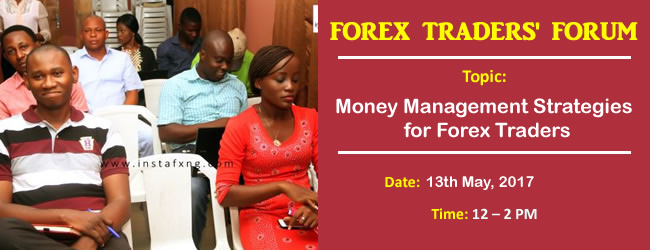
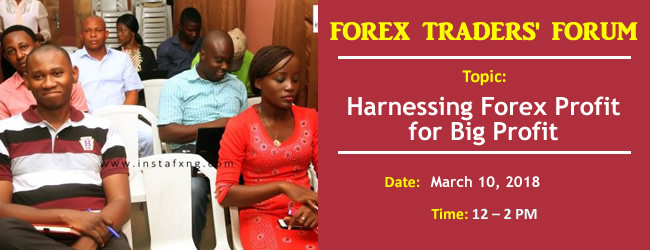
education and forum registration page updates

Changed region(s): [[0.4923, 0.392, 0.9846, 0.588], [0.6462, 0.7, 0.8308, 0.756]]

diff --git a/public_html/admin/edu_student_category_0.php b/public_html/admin/edu_student_category_0.php
@@ -7,23 +7,23 @@ if (!$session_admin->is_logged_in()) {
 
 if(isset($_POST['search_text']) && strlen($_POST['search_text']) > 3) {
     $search_text = $_POST['search_text'];
-    $query = "SELECT u.user_code, CONCAT(u.last_name, SPACE(1), u.first_name) AS full_name, u.email,
+    $query = "SELECT u.user_code, CONCAT(u.last_name, SPACE(1), u.first_name) AS full_name, u.email, ftc.created,
             u.phone, u.academy_signup, CONCAT(a.last_name, SPACE(1), a.first_name) AS account_officer_full_name
-            FROM user AS u
-            LEFT JOIN user_edu_exercise_log AS ueel ON u.user_code = ueel.user_code
+            FROM free_training_campaign AS ftc
+            INNER JOIN user AS u ON ftc.email = u.email
             INNER JOIN account_officers AS ao ON u.attendant = ao.account_officers_id
             INNER JOIN admin AS a ON ao.admin_code = a.admin_code
-            WHERE u.academy_signup IS NOT NULL AND ueel.user_code IS NULL AND (u.email LIKE '%$search_text%' OR u.first_name LIKE '%$search_text%' OR u.middle_name LIKE '%$search_text%' OR u.last_name LIKE '%$search_text%' OR u.phone LIKE '%$search_text%')
-            ORDER BY u.academy_signup DESC ";
+            WHERE STR_TO_DATE(ftc.created, '%Y-%m-%d') > '2018-01-01' AND u.academy_signup IS NULL AND (u.email LIKE '%$search_text%' OR u.first_name LIKE '%$search_text%' OR u.middle_name LIKE '%$search_text%' OR u.last_name LIKE '%$search_text%' OR u.phone LIKE '%$search_text%')
+            ORDER BY ftc.created DESC ";
 } else {
-    $query = "SELECT u.user_code, CONCAT(u.last_name, SPACE(1), u.first_name) AS full_name, u.email,
+    $query = "SELECT u.user_code, CONCAT(u.last_name, SPACE(1), u.first_name) AS full_name, u.email, ftc.created,
             u.phone, u.academy_signup, CONCAT(a.last_name, SPACE(1), a.first_name) AS account_officer_full_name
-            FROM user AS u
-            LEFT JOIN user_edu_exercise_log AS ueel ON u.user_code = ueel.user_code
+            FROM free_training_campaign AS ftc
+            INNER JOIN user AS u ON ftc.email = u.email
             INNER JOIN account_officers AS ao ON u.attendant = ao.account_officers_id
             INNER JOIN admin AS a ON ao.admin_code = a.admin_code
-            WHERE u.academy_signup IS NOT NULL AND ueel.user_code IS NULL
-            ORDER BY u.academy_signup DESC ";
+            WHERE STR_TO_DATE(ftc.created, '%Y-%m-%d') > '2018-01-01' AND u.academy_signup IS NULL
+            ORDER BY ftc.created DESC ";
 }
 
 $numrows = $db_handle->numRows($query);
@@ -109,14 +109,14 @@ $education_students = $db_handle->fetchAssoc($result);
                         <div class="row">
                             <div class="col-sm-12">
 
-                                <p>List of students that never logged in to the FX Academy portal.</p>
+                                <p>List of students that never logged in to the FX Academy portal. Covers Jan 2018 till date.</p>
 
                                 <table class="table table-responsive table-striped table-bordered table-hover">
                                     <thead>
                                     <tr>
                                         <th>Client Name</th>
                                         <th>Client Phone</th>
-                                        <th>First Login</th>
+                                        <th>Reg Date</th>
                                         <th>Officer</th>
                                         <th>Action</th>
                                     </tr>
@@ -126,10 +126,10 @@ $education_students = $db_handle->fetchAssoc($result);
                                         <tr>
                                             <td><?php echo $row['full_name']; ?></td>
                                             <td><?php echo $row['phone']; ?></td>
-                                            <td><?php echo datetime_to_text($row['academy_signup']); ?></td>
+                                            <td><?php echo datetime_to_text($row['created']); ?></td>
                                             <td><?php echo $row['account_officer_full_name']; ?></td>
                                             <td nowrap="nowrap">
-                                                <a title="Comment" class="btn btn-success" href="sales_contact_view.php?x=<?php echo encrypt($row['user_code']); ?>&r=<?php echo 'edu_student_category_1'; ?>&c=<?php echo encrypt('STUDENT CATEGORY 1'); ?>&pg=<?php echo $currentpage; ?>"><i class="glyphicon glyphicon-comment icon-white"></i> </a>
+                                                <a title="Comment" class="btn btn-success" href="sales_contact_view.php?x=<?php echo encrypt($row['user_code']); ?>&r=<?php echo 'edu_student_category_0'; ?>&c=<?php echo encrypt('STUDENT CATEGORY 0'); ?>&pg=<?php echo $currentpage; ?>"><i class="glyphicon glyphicon-comment icon-white"></i> </a>
                                                 <a target="_blank" title="View" class="btn btn-info" href="client_detail.php?id=<?php echo encrypt($row['user_code']); ?>"><i class="glyphicon glyphicon-eye-open icon-white"></i> </a>
                                             </td>
                                         </tr>

diff --git a/app_assets/class_client_operation.php b/app_assets/class_client_operation.php
@@ -172,6 +172,25 @@ class clientOperation {
     public function new_user($account_no, $full_name, $email_address, $phone_number, $type, $my_refferer = "", $attendant = "") {
         global $db_handle;
         global $system_object;
+
+        $full_name = preg_replace("/[^A-Za-z0-9 ]/", '', $full_name);
+        $full_name = ucwords(strtolower(trim($full_name)));
+        $full_name = explode(" ", $full_name);
+
+        if(count($full_name) == 3) {
+            $last_name = $full_name[0];
+            if(strlen($full_name[2]) < 3) {
+                $middle_name = $full_name[2];
+                $first_name = $full_name[1];
+            } else {
+                $middle_name = $full_name[1];
+                $first_name = $full_name[2];
+            }
+        } else {
+            $last_name = $full_name[0];
+            $middle_name = "";
+            $first_name = $full_name[1];
+        }
         
         // Check whether the email is existing
         $query = "SELECT user_code FROM user WHERE email = '$email_address' LIMIT 1";
@@ -180,6 +199,15 @@ class clientOperation {
         if($db_handle->numOfRows($result) > 0) {
             $fetched_data = $db_handle->fetchAssoc($result);
             $user_code = $fetched_data[0]['user_code'];
+
+            // We want to send welcome email to someone who has a profile but no account,
+            // since we are logging his first account, he should get a welcome email
+            $query = "SELECT ui.ifx_acct_no FROM user AS u INNER JOIN user_ifxaccount AS ui ON u.user_code = ui.user_code WHERE u.email = '$email_address'";
+            $result = $db_handle->runQuery($query);
+
+            if($db_handle->numOfRows($result) == 0) {
+                $this->send_welcome_email($last_name, $email_address);
+            }
             
             if($this->ifx_account_is_duplicate($account_no)) {
                 return false;
@@ -201,25 +229,6 @@ class clientOperation {
             if($db_handle->numRows("SELECT user_code FROM user WHERE user_code = '$user_code'") > 0) { goto usercode; };
             
             $pass_salt = hash("SHA256", "$user_code");
-
-            $full_name = preg_replace("/[^A-Za-z0-9 ]/", '', $full_name);
-            $full_name = ucwords(strtolower(trim($full_name)));
-            $full_name = explode(" ", $full_name);
-
-            if(count($full_name) == 3) {
-                $last_name = $full_name[0];
-                if(strlen($full_name[2]) < 3) {
-                    $middle_name = $full_name[2];
-                    $first_name = $full_name[1];
-                } else {
-                    $middle_name = $full_name[1];
-                    $first_name = $full_name[2];
-                }
-            } else {
-                $last_name = $full_name[0];
-                $middle_name = "";
-                $first_name = $full_name[1];
-            }
 
             if(empty($attendant)) {
                 $attendant = $system_object->next_account_officer();
@@ -305,11 +314,11 @@ class clientOperation {
             if(empty($middle_name)) {
                 $query = "INSERT INTO user (user_code, attendant, email, pass_salt, first_name, last_name, phone) VALUES ('$user_code', $attendant, '$email_address', '$pass_salt', '$first_name', '$last_name', '$phone_number')";
                 $db_handle->runQuery($query);
-                $this->send_welcome_email($last_name, $email_address);
+
             } else {
                 $query = "INSERT INTO user (user_code, attendant, email, pass_salt, first_name, middle_name, last_name, phone) VALUES ('$user_code', $attendant, '$email_address', '$pass_salt', '$first_name', '$middle_name', '$last_name', '$phone_number')";
                 $db_handle->runQuery($query);
-                $this->send_welcome_email($last_name, $email_address);
+
             }
 
             // Create a record for the user on the loyalty log table

diff --git a/public_html/traders_forum.php b/public_html/traders_forum.php
@@ -76,7 +76,7 @@ if ($_SERVER['REQUEST_METHOD'] == 'POST') {
 
             <p>Thank you for reserving a seat at the next Forex Traders Forum.</p>
 
-            <p>At the Forum this month, we will examine how to trade Forex News profitably.</p>
+            <p>At the Forum this month, we will discuss Harnessing ForexCopy for Big Profit.</p>
 
             <p>You will also have the opportunity of meeting other Forex traders and you
             could be one of two lucky winners to win $20 trading bonus. Isn’t that cool?</p>
@@ -84,7 +84,7 @@ if ($_SERVER['REQUEST_METHOD'] == 'POST') {
             <p>Please mark your calendar for this date; we will also remind you via sms.</p>
 
             <p>Your Venue: $chosen_venue<br /><br />
-            Date: 10th of February, 2018<br /><br />
+            Date: 10th of March, 2018<br /><br />
             Time: 12 - 2pm</p>
 
             <br /><br />
@@ -161,15 +161,14 @@ MAIL;
                     <div class="super-shadow page-top-section">
                         <div class="row">
                             <div class="col-sm-6">
-                                <h3 style="margin: 0;">How to Trade Forex News Profitably</h3>
+                                <h3 style="margin: 0;">Harnessing ForexCopy for Big Profit</h3>
                                 <p style="margin-top: 0">
-                                    Join us on Saturday 10th of February, 2018 as we examine how to trade Forex News profitably.
-                                    Time: 12 - 2pm.<br />
-                                    <strong>Reserve your seat below to stand a chance to win $20.</strong>
-                                </p>
+                                    Join us on Saturday 10th of March,
+                                    2018 as we examine how  you can exploit the potentials of Forex copy to deliver consistent profit  to you. Time: 12 - 2pm.</p>
+                                <p><strong><span style="color: black;"><a href="traders_forum.php#more">Reserve your seat below to stand a chance to win $20.</a></span></strong></p>
                             </div>
                             <div class="col-sm-6">
-                                <img src="images/Traders_Forum.jpg" alt="" class="img-responsive" />
+                                <img src="images/forum-forex-copy.jpg" alt="" class="img-responsive" />
                             </div>
                         </div>
                     </div>
@@ -188,8 +187,8 @@ MAIL;
                                     success. They share their experiences, learn from other traders, meet new
                                     people and go home with lots of exciting prizes such bonus account and Instaforex
                                     branded materials. </p>
-                                <p>Join us on Saturday, 13th of January, 2018 for another exciting edition of
-                                    Nigerian Forex traders Forum as we examine how to make 2018 a memorable one.</p>
+                                <p>Join us on Saturday, 10th of March, 2018 for another exciting edition of
+                                    Nigerian Forex traders Forum as we discuss Harnessing ForexCopy for Big Profits.</p>
                             </div>
                         </div>
 
@@ -234,6 +233,8 @@ MAIL;
                             </div>
 
                             <span id="opt"></span>
+
+                            <section id="more">
 
                             <div class="row">
                                 <div class="col-sm-12">
@@ -287,6 +288,8 @@ MAIL;
                                     </form>
                                 </div>
                             </div>
+
+                            </section>
 
                         </div>
 

diff --git a/cronjobs/unresponsive_training_registrant.php b/cronjobs/unresponsive_training_registrant.php
@@ -201,6 +201,32 @@ $my_message_3 =
 </div>
 MAIL;
 
+// Mail 0 : This mail is to be sent exactly 7 days after someone registers and did not log in
+
+$today = date('Y-m-d');
+
+$query = "SELECT u.first_name, u.email
+        FROM free_training_campaign AS ftc
+        INNER JOIN user AS u ON ftc.email = u.email
+        WHERE (DATEDIFF('$today', STR_TO_DATE(ftc.created, '%Y-%m-%d')) = 7) AND u.academy_signup IS NULL
+        ORDER BY ftc.created DESC ";
+
+$result = $db_handle->runQuery($query);
+$fetched_data = $db_handle->fetchAssoc($result);
+
+foreach ($fetched_data as $row) {
+    $client_name = ucwords(strtolower(trim($row['first_name'])));
+    $client_email = strtolower(trim($row['email']));
+
+    $my_subject = $my_subject_1;
+    $my_message = $my_message_1;
+
+    // Replace [NAME] with clients full name
+    $my_message_new = str_replace('[NAME]', $client_name, $my_message);
+    $my_subject_new = str_replace('[NAME]', $client_name, $my_subject);
+
+    $system_object->send_email($my_subject_new, $my_message_new, $client_email, $client_name);
+}
 
 // Mail 1 : This mail is to be sent exactly 7 days after registration, this client is still yet to start lesson 1
 
@@ -209,8 +235,6 @@ $today = date('Y-m-d');
 $query = "SELECT u.first_name, u.email
         FROM user AS u
         LEFT JOIN user_edu_exercise_log AS ueel ON u.user_code = ueel.user_code
-        INNER JOIN account_officers AS ao ON u.attendant = ao.account_officers_id
-        INNER JOIN admin AS a ON ao.admin_code = a.admin_code
         WHERE (DATEDIFF('$today', STR_TO_DATE(u.academy_signup, '%Y-%m-%d')) = 7) AND u.academy_signup IS NOT NULL AND ueel.user_code IS NULL
         ORDER BY u.academy_signup DESC ";
 
@@ -238,8 +262,6 @@ $today = date('Y-m-d');
 $query = "SELECT u.first_name, u.email
         FROM user AS u
         LEFT JOIN user_edu_exercise_log AS ueel ON u.user_code = ueel.user_code
-        INNER JOIN account_officers AS ao ON u.attendant = ao.account_officers_id
-        INNER JOIN admin AS a ON ao.admin_code = a.admin_code
         WHERE (DATEDIFF('$today', STR_TO_DATE(u.academy_signup, '%Y-%m-%d')) = 14) AND u.academy_signup IS NOT NULL AND ueel.user_code IS NULL
         ORDER BY u.academy_signup DESC ";
 
@@ -267,8 +289,6 @@ $today = date('Y-m-d');
 $query = "SELECT u.first_name, u.email
         FROM user AS u
         LEFT JOIN user_edu_exercise_log AS ueel ON u.user_code = ueel.user_code
-        INNER JOIN account_officers AS ao ON u.attendant = ao.account_officers_id
-        INNER JOIN admin AS a ON ao.admin_code = a.admin_code
         WHERE (DATEDIFF('$today', STR_TO_DATE(u.academy_signup, '%Y-%m-%d')) = 28) AND u.academy_signup IS NOT NULL AND ueel.user_code IS NULL
         ORDER BY u.academy_signup DESC ";
 

diff --git a/public_html/fxacademy/login.php b/public_html/fxacademy/login.php
@@ -9,12 +9,12 @@ $client_operation = new clientOperation();
 
 if (isset($_POST['submit']) && !empty($_POST['submit'])) {
 
-    if(isset($_POST['g-recaptcha-response']) && !empty($_POST['g-recaptcha-response'])) {
-        $secret = '6LcKDhATAAAAALn9hfB0-Mut5qacyOxxMNOH6tov';
-        $verifyResponse = file_get_contents('https://www.google.com/recaptcha/api/siteverify?secret=' . $secret . '&response=' . $_POST['g-recaptcha-response']);
-        $responseData = json_decode($verifyResponse);
-
-        if ($responseData->success) {
+//    if(isset($_POST['g-recaptcha-response']) && !empty($_POST['g-recaptcha-response'])) {
+//        $secret = '6LcKDhATAAAAALn9hfB0-Mut5qacyOxxMNOH6tov';
+//        $verifyResponse = file_get_contents('https://www.google.com/recaptcha/api/siteverify?secret=' . $secret . '&response=' . $_POST['g-recaptcha-response']);
+//        $responseData = json_decode($verifyResponse);
+//
+//        if ($responseData->success) {
             $client_email = $db_handle->sanitizePost($_POST['client_email']);
             $user_code = $client_operation->get_user_by_email($client_email);
 
@@ -42,12 +42,12 @@ if (isset($_POST['submit']) && !empty($_POST['submit'])) {
             } else {
                 redirect_to("register.php?id=$client_email");
             }
-        } else {
-            $message_error = "Please try the robot test again.";
-        }
-    } else {
-        $message_error = "Please confirm that you are not a robot. :)";
-    }
+//        } else {
+//            $message_error = "Please try the robot test again.";
+//        }
+//    } else {
+//        $message_error = "Please confirm that you are not a robot. :)";
+//    }
 } else { // Form has not been submitted.
     $username = "";
     $password = "";
@@ -130,7 +130,7 @@ if(isset($_GET['logout'])) {
                                             <input type="text" placeholder="Email Address" name="client_email" class="form-control">
                                         </div>
                                     </div>
-                                    <div class="form-group"><div class="g-recaptcha" data-sitekey="6LcKDhATAAAAAF3bt-hC_fWA2F0YKKpNCPFoz2Jm"></div></div>
+<!--                                    <div class="form-group"><div class="g-recaptcha" data-sitekey="6LcKDhATAAAAAF3bt-hC_fWA2F0YKKpNCPFoz2Jm"></div></div>-->
                                     <div class="form-group">
                                         <input type="submit" name="submit" class="btn btn-lg btn-success" value="Start Learning">
                                     </div>

diff --git a/public_html/index.php b/public_html/index.php
@@ -34,13 +34,28 @@ $thisPage = "Home";
                     <!-- Unique Page Content Starts Here
                     ================================================== -->
 
-                    <div  class="item super-shadow page-top-section">
-                        <div class="row ">
-                            <a href="https://instafxng.com/loyalty.php" title="click for details">
-                                <center>
-                                    <img src="images/ilpr_lead_image.jpg" alt="" class="img-responsive" />
-                                </center>
-                            </a>
+<!--                    <div  class="item super-shadow page-top-section">-->
+<!--                        <div class="row ">-->
+<!--                            <a href="https://instafxng.com/loyalty.php" title="click for details">-->
+<!--                                <center>-->
+<!--                                    <img src="images/ilpr_lead_image.jpg" alt="" class="img-responsive" />-->
+<!--                                </center>-->
+<!--                            </a>-->
+<!--                        </div>-->
+<!--                    </div>-->
+
+                    <div class="super-shadow page-top-section">
+                        <div class="row">
+                            <div class="col-sm-6">
+                                <h3 style="margin: 0;">Harnessing ForexCopy for Big Profit</h3>
+                                <p style="margin-top: 0">
+                                    Join us on Saturday 10th of March,
+                                    2018 as we examine how  you can exploit the potentials of Forex copy to deliver consistent profit  to you. Time: 12 - 2pm.</p>
+                                <p><strong><span style="color: black;"><a href="traders_forum.php#more">Click here to reserve your seat and stand a chance to win $20.</a></span></strong></p>
+                            </div>
+                            <div class="col-sm-6">
+                                <img src="images/forum-forex-copy.jpg" alt="" class="img-responsive" />
+                            </div>
                         </div>
                     </div>
 

diff --git a/public_html/admin/layouts/sidebar.php b/public_html/admin/layouts/sidebar.php
@@ -184,6 +184,7 @@ $my_pages_sidebar = explode(",", $my_pages_sidebar['allowed_pages']);
                         <?php if (in_array(63, $my_pages_sidebar)) { ?><li><a href="edu_course.php">All Courses</a></li><?php } ?>
                         <?php if (in_array(64, $my_pages_sidebar)) { ?><li><a href="edu_support_ticket.php">Course Messages</a></li><?php } ?>
                         <?php if (in_array(65, $my_pages_sidebar)) { ?><li><a href="edu_student.php">All Students</a></li><?php } ?>
+                        <?php if (in_array(66, $my_pages_sidebar)) { ?><li><a href="edu_student_category_0.php">Category 0 Students</a></li><?php } ?>
                         <?php if (in_array(66, $my_pages_sidebar)) { ?><li><a href="edu_student_category_1.php">Category 1 Students</a></li><?php } ?>
                         <?php if (in_array(236, $my_pages_sidebar)) { ?><li><a href="edu_student_category_2.php">Category 2 Students</a></li><?php } ?>
                         <?php if (in_array(237, $my_pages_sidebar)) { ?><li><a href="edu_student_category_3.php">Category 3 Students</a></li><?php } ?>
